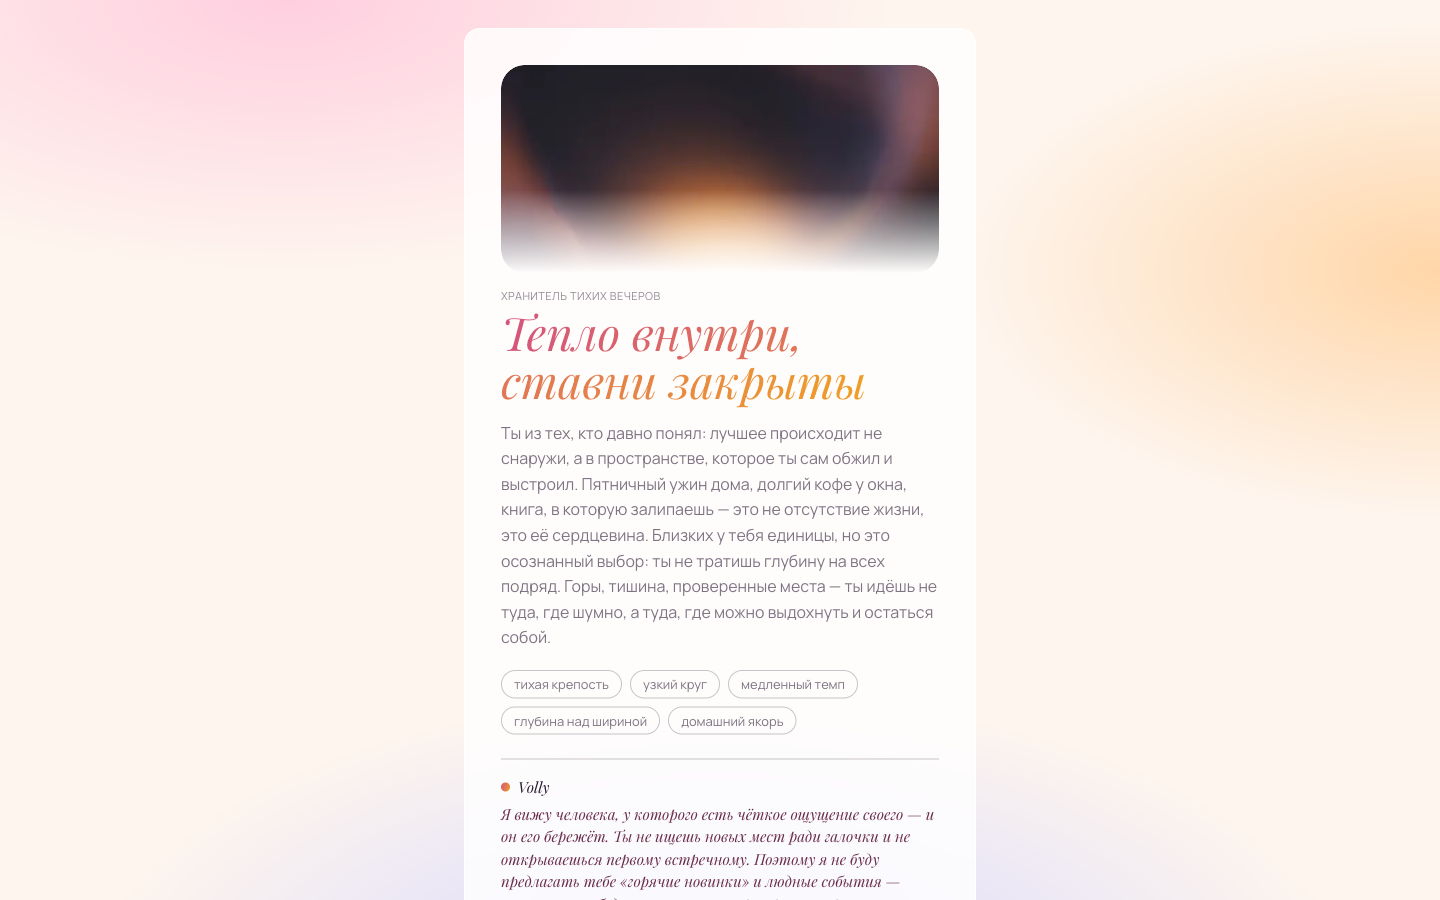
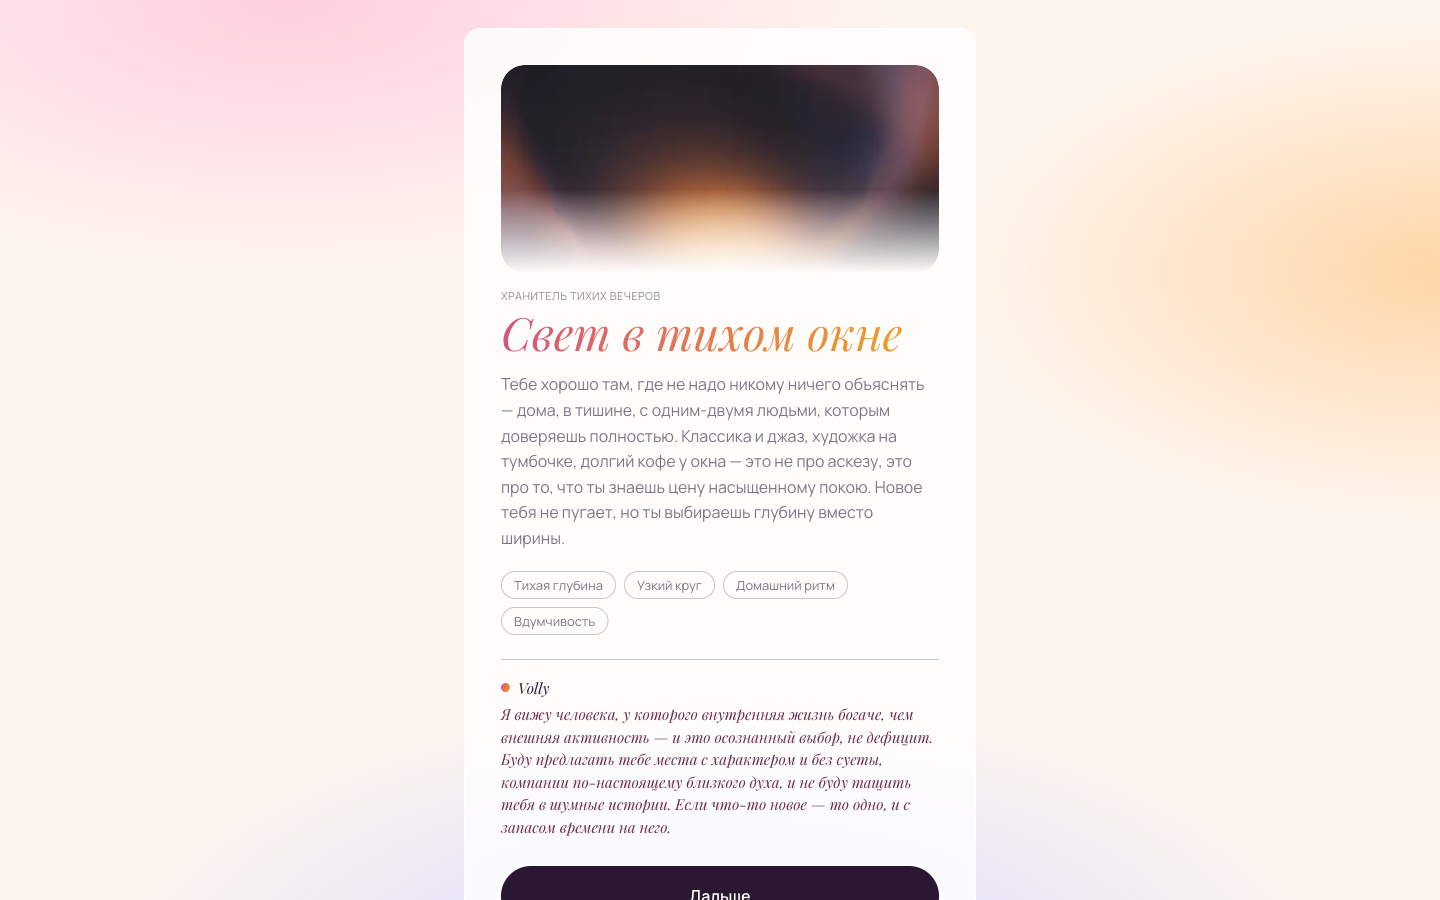
feat(sprint-1.2.D.2-C3): title responsive + summary/traits length round
Раунд правок по двум флагам D.2.C.2 (решения архитектора, согласованы Виктором).
Финальный release-коммит Sprint 1.2.D.

- docs/aurora-tokens.md §2: display-xl -> responsive-вилка (mobile 32px/1.1 ->
  lg: 46px/1.05) через lg:-брейкпоинт (идиом D.0/C.1, не clamp). Фикс 46px на 390px
  рвал hero vibe_title на 3 строки; заголовок НЕ режем — чиним токен. SOT-патч
  внутри release-коммита (токен и реализация консистентны на тегнутом состоянии).
- components/reveal/RevealCard.tsx: vibe_title hero -> responsive text-[2rem]
  leading-[1.1] / lg:text-[2.875rem] lg:leading-[1.05]. Класс-свап, ±0 строк (88).
- lib/vibe/reveal/prompt.ts: vibe_summary 2–4 -> 2–3 предложения (не текстовая стена;
  тон/конкретику не трогаю). traits -> СТРОГО 1–2 слова (был один трейт в 3 слова).

E2E LIVE-VERIFY (prod, реальная сессия, 20 ответов quiet_evenings, реальный Sonnet
под санкцией билинга 1.2.D):
- Перегенерённый профиль: vibe_title «Свет в тихом окне» — 1 строка на mobile 390
  (responsive 32px), traits ВСЕ 1–2 слова, vibe_summary 3 предложения, volly_note
  тон сохранён. archetype quiet_evenings когерентен.
- Re-скрины reveal-ready-{desktop-1440,mobile-390}. RevealGenerating/Failed display-xl
  НЕ используют (заголовок text-[1.75rem], shimmer=h-7 бары) -> их C.2-скрины валидны.
- Тест-юзер (личный аккаунт) возвращён в чистое состояние.

npm run build green (prod, 12 роутов). npm test 33/33 green.
LoC: RevealCard 88 (потолок 89), prompt.ts 26 (потолок 31).
[…]

Changed region(s): [[0.3438, 0.3422, 0.6562, 0.7156], [0.3438, 0.7467, 0.6562, 1.0]]

diff --git a/lib/vibe/reveal/prompt.ts b/lib/vibe/reveal/prompt.ts
@@ -17,9 +17,10 @@ ${archetypeList}
 - Конкретность: цепляйся за реальные ответы, без воды и клише, без гороскопной эзотерики.
 - Без переслащивания: тепло, но честно и наблюдательно.
 - vibe_title — образный заголовок-подарок (метафора, образ), НЕ калька названия архетипа и не пересказ summary. КОРОТКО: 2–4 слова — он рендерится крупным hero-заголовком и должен лечь в 1–2 строки.
-- traits — 3–5 коротких тегов, КАЖДЫЙ 1–2 слова (рендерятся чипами; не фразы и не предложения).
+- vibe_summary — 2–3 предложения (не больше трёх): щедрое, но не текстовая стена.
+- traits — 3–5 коротких тегов, СТРОГО 1–2 слова каждый, без исключений (рендерятся чипами; не фразы и не предложения).
 - volly_note — личная реплика от тебя, Volly, человеку на «ты»: что ты в нём разглядел и как будешь это учитывать дальше.
 
 ФОРМАТ ВЫХОДА — СТРОГО валидный JSON-объект и ничего больше: без преамбулы, без пояснений, без markdown, без \`\`\`. Ровно такая форма:
-{"vibe_title": "строка", "vibe_summary": "строка, 2–4 предложения", "traits": ["строка", "строка", "строка"], "volly_note": "строка", "archetype": "один из перечисленных slug"}`
+{"vibe_title": "строка", "vibe_summary": "строка, 2–3 предложения", "traits": ["строка", "строка", "строка"], "volly_note": "строка", "archetype": "один из перечисленных slug"}`
 }

diff --git a/components/reveal/RevealCard.tsx b/components/reveal/RevealCard.tsx
@@ -48,7 +48,7 @@ export function RevealCard({ vibeTitle, vibeSummary, traits, vollyNote, archetyp
         </p>
       )}
 
-      <h1 className="mt-1 font-display text-[2.875rem] leading-[1.05] text-ink">
+      <h1 className="mt-1 font-display text-[2rem] leading-[1.1] text-ink lg:text-[2.875rem] lg:leading-[1.05]">
         <span className="accent-word">{vibeTitle}</span>
       </h1>
 

diff --git a/docs/aurora-tokens.md b/docs/aurora-tokens.md
@@ -72,7 +72,7 @@ color: transparent;
 ### Scale (мобильный фокус, 375px base)
 | Token | Size / line-height | Где |
 |---|---|---|
-| `display-xl` | 46px / 1.0 | Welcome H1, Reveal title |
+| `display-xl` | mobile 32px / 1.1 → `lg:` 46px / 1.05 | Welcome H1, Reveal title (hero). **Responsive-вилка** через `lg:`-брейкпоинт (как D.0/C.1, не clamp): на 390px крупный 46px-заголовок в 3–4 слова рвётся на 3 строки — мобильный шаг 32px держит его в 1–2 строки, на `lg`+ возвращается к 46px hero. Текст заголовка НЕ режем под фикс-размер. |
 | `display-lg` | 32px / 1.08 | Question H1 («В пятницу вечером ты *скорее*...») |
 | `display-md` | 24px / 1.1 | Section heading |
 | `body-lg` | 16px / 1.55 | Описание под H1 |
